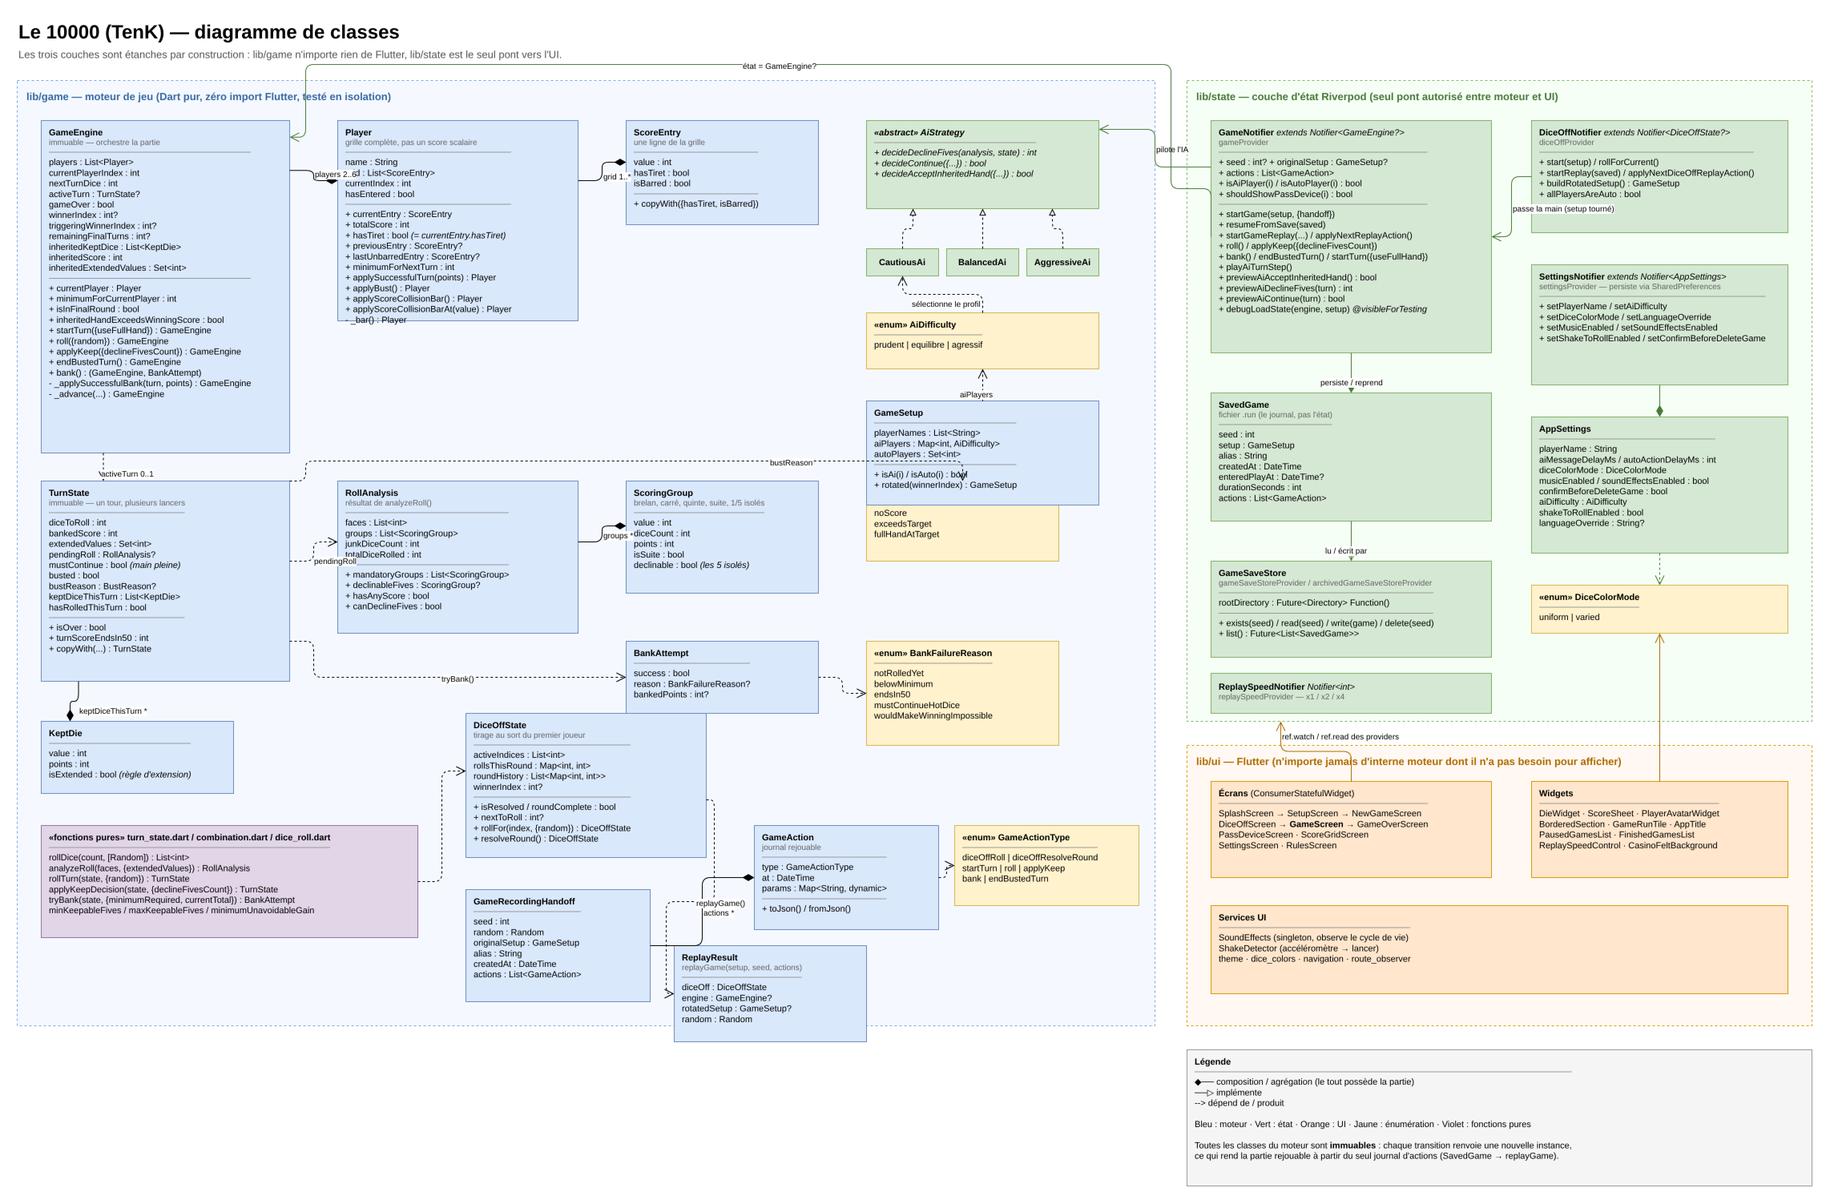
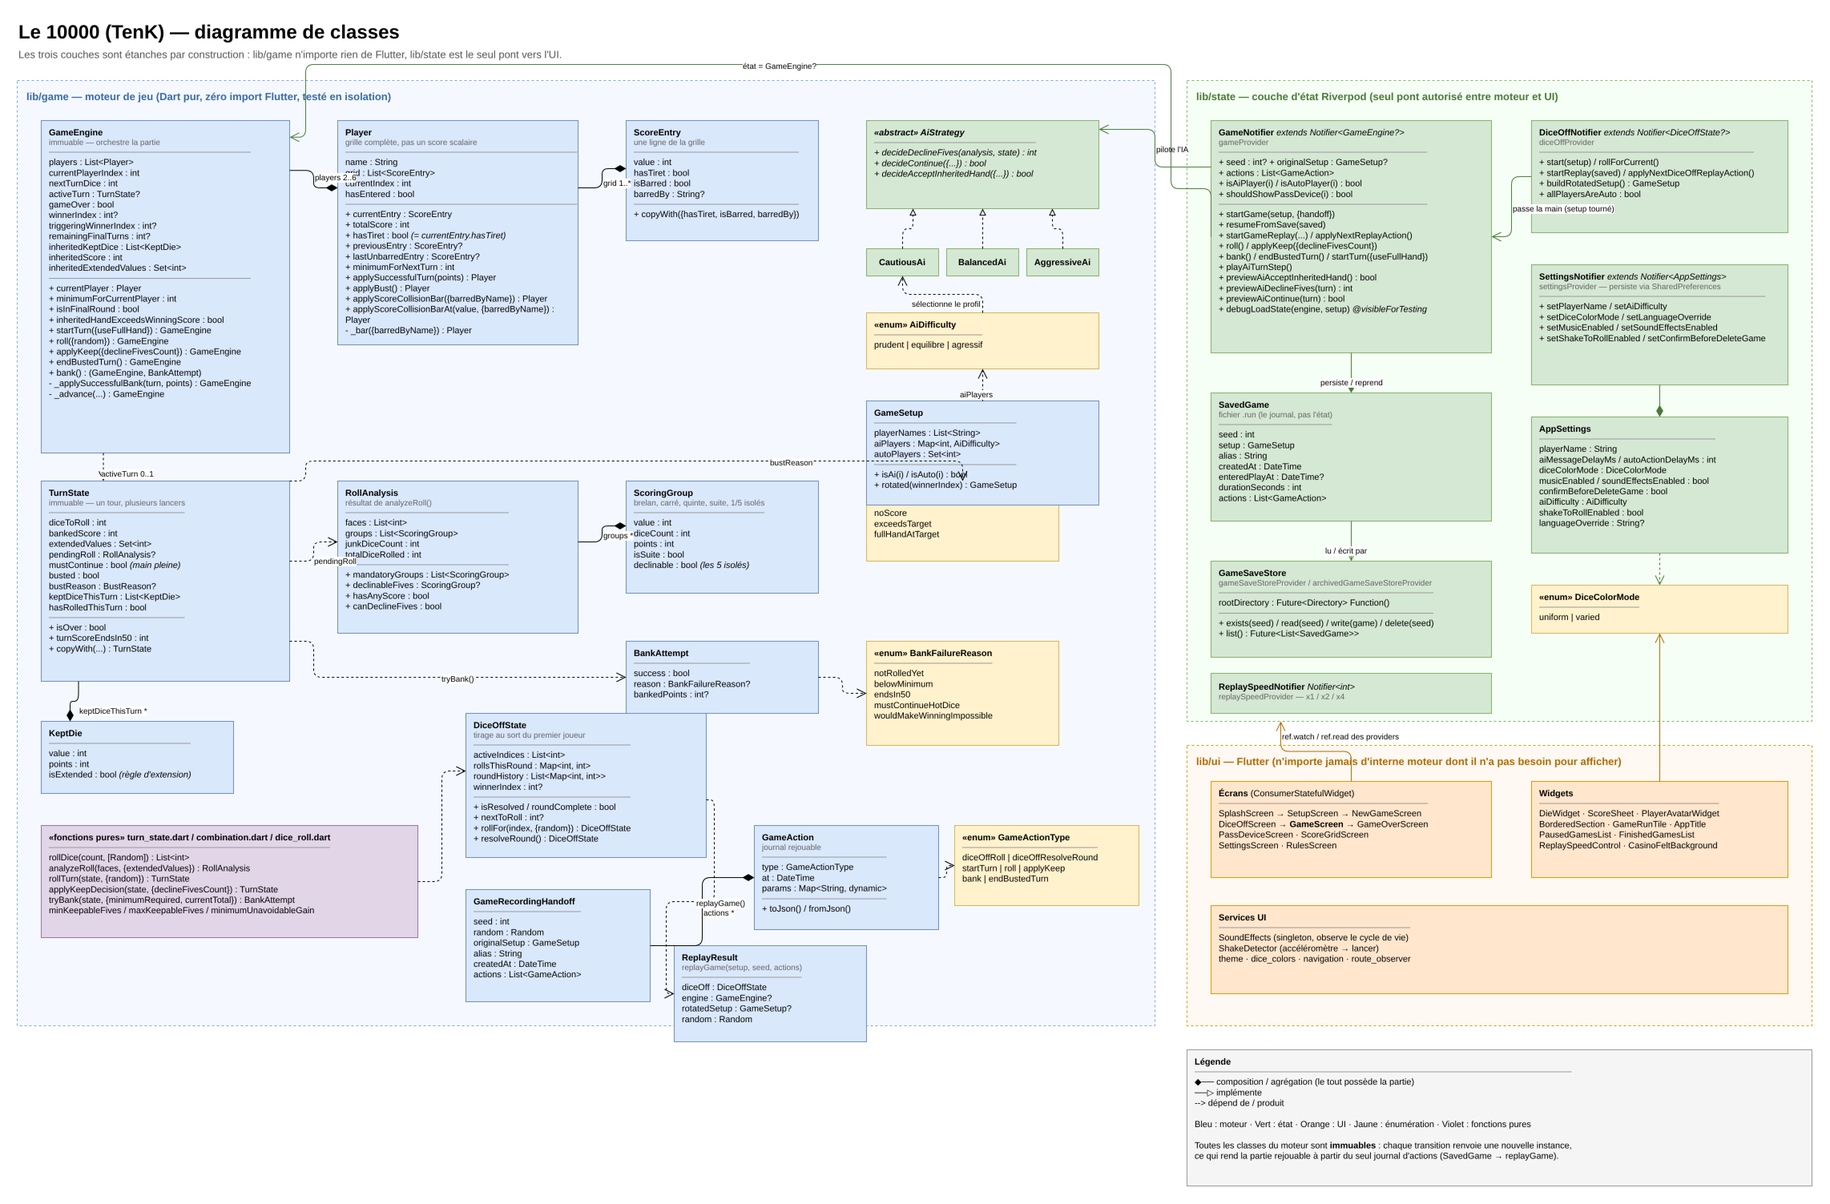
fix: show who actually barred a score, not the column's own player
The score grid always showed the column owner's badge next to a barred
line, whichever of the two ways it got barred: correct for a self-bust
(a second consecutive bust bars the player's own line), wrong for a score
collision (another player's turn is what barred it -- their badge should
show, not the column owner's).

ScoreEntry gains barredBy: String?, set by Player.applyBust (always the
player's own name -- a bust only ever bars its own player) and
applyScoreCollisionBar(At) (now takes a required barredByName, the player
whose turn caused the collision). GameEngine passes updatedPlayer.name
through from _applySuccessfulBank. The score grid reads entry.barredBy
instead of the column's player name.

Widget test reproduces the exact reported case (two players, a collision)
and is verified failing against the previous rendering; a second test
covers the self-bust case where the two names happen to coincide.

Claude-Session: https://claude.ai/code/session_01KwBBGkCP45jdW91CU4y1he

diff --git a/test/game/player_test.dart b/test/game/player_test.dart
@@ -44,6 +44,7 @@ void main() {
 
     p = p.applyBust(); // craque sur 700, déjà tiretée : barrée à son tour
     expect(p.totalScore, 0);
+    expect(p.grid[1].barredBy, 'A', reason: 'un craque se barre toujours lui-même');
   });
 
   test('un barrage vers une ligne sans tiret laisse bien le joueur sans tiret', () {
@@ -96,14 +97,14 @@ void main() {
   group('applyScoreCollisionBar', () {
     test('barre même sans tiret actif', () {
       var p = Player(name: 'A').applySuccessfulTurn(700); // 0 -> 700
-      p = p.applyScoreCollisionBar();
+      p = p.applyScoreCollisionBar(barredByName: 'B');
       expect(p.totalScore, 0);
       expect(p.hasTiret, isFalse);
     });
 
     test('une collision qui ramène à 0 remet aussi l\'entrée en jeu à zéro', () {
       var p = Player(name: 'A').applySuccessfulTurn(700); // 0 -> 700
-      p = p.applyScoreCollisionBar(); // collision -> retombe à 0
+      p = p.applyScoreCollisionBar(barredByName: 'B'); // collision -> retombe à 0
       expect(p.totalScore, 0);
       expect(p.hasEntered, isFalse);
       expect(p.minimumForNextTurn, entryThreshold);
@@ -112,7 +113,7 @@ void main() {
     test('une collision qui ne ramène pas à 0 ne touche pas à l\'entrée en jeu', () {
       var p = Player(name: 'A').applySuccessfulTurn(500); // 0 -> 500
       p = p.applySuccessfulTurn(300); // 500 -> 800
-      p = p.applyScoreCollisionBar(); // collision -> retombe à 500, toujours entré
+      p = p.applyScoreCollisionBar(barredByName: 'B'); // collision -> retombe à 500, toujours entré
       expect(p.totalScore, 500);
       expect(p.hasEntered, isTrue);
       expect(p.minimumForNextTurn, normalThreshold);
@@ -122,7 +123,7 @@ void main() {
       var p = Player(name: 'A').applySuccessfulTurn(500); // 0 -> 500
       p = p.applyBust(); // tiret posé sur 500, point de retour = 0
       p = p.applySuccessfulTurn(300); // 500 -> 800, point de retour = 500
-      p = p.applyScoreCollisionBar(); // barre 800 -> retour à 500
+      p = p.applyScoreCollisionBar(barredByName: 'B'); // barre 800 -> retour à 500
       expect(p.totalScore, 500);
       // Le tiret de 500 est resté attaché à sa ligne : y revenir le remet en
       // vigueur (voir le test des deux craques consécutifs).
@@ -133,9 +134,10 @@ void main() {
   group('applyScoreCollisionBarAt', () {
     test('collision sur la ligne courante : comportement inchangé (repli sur le score précédent)', () {
       var p = Player(name: 'A').applySuccessfulTurn(700); // 0 -> 700
-      p = p.applyScoreCollisionBarAt(700);
+      p = p.applyScoreCollisionBarAt(700, barredByName: 'B');
       expect(p.totalScore, 0);
       expect(p.grid.last.isBarred, isTrue);
+      expect(p.grid.last.barredBy, 'B', reason: 'barré par l\'auteur de la collision, pas par A lui-même');
     });
 
     // Régression : un adversaire qui a DÉJÀ eu 700 (avant de progresser à
@@ -145,7 +147,7 @@ void main() {
       var p = Player(name: 'A').applySuccessfulTurn(700); // 0 -> 700
       p = p.applySuccessfulTurn(200); // 700 -> 900
 
-      p = p.applyScoreCollisionBarAt(700);
+      p = p.applyScoreCollisionBarAt(700, barredByName: 'B');
 
       expect(p.totalScore, 900, reason: 'la progression depuis 700 -> 900 n\'est pas remise en cause');
       expect(p.hasEntered, isTrue);
@@ -156,7 +158,7 @@ void main() {
 
     test('aucune ligne ne correspond : sans effet', () {
       var p = Player(name: 'A').applySuccessfulTurn(700); // 0 -> 700
-      final unchanged = p.applyScoreCollisionBarAt(1234);
+      final unchanged = p.applyScoreCollisionBarAt(1234, barredByName: 'B');
       expect(unchanged.totalScore, 700);
       expect(unchanged.grid.every((e) => !e.isBarred), isTrue);
     });
@@ -164,10 +166,10 @@ void main() {
     test('une ligne déjà barrée ne peut pas l\'être une seconde fois par une nouvelle collision', () {
       var p = Player(name: 'A').applySuccessfulTurn(700); // 0 -> 700
       p = p.applySuccessfulTurn(200); // 700 -> 900
-      p = p.applyScoreCollisionBarAt(700); // barre la ligne 700
+      p = p.applyScoreCollisionBarAt(700, barredByName: 'B'); // barre la ligne 700
       expect(p.grid[1].isBarred, isTrue);
 
-      final again = p.applyScoreCollisionBarAt(700); // déjà barrée : sans effet
+      final again = p.applyScoreCollisionBarAt(700, barredByName: 'C'); // déjà barrée : sans effet
       expect(again.totalScore, 900);
       expect(again.grid[1].isBarred, isTrue);
     });
@@ -179,11 +181,11 @@ void main() {
     test('un repli saute une ligne intermédiaire déjà barrée pour retomber sur le plus haut score non barré', () {
       var p = Player(name: 'A').applySuccessfulTurn(500); // 0 -> 500
       p = p.applySuccessfulTurn(200); // 500 -> 700
-      p = p.applyScoreCollisionBarAt(500); // barre la ligne 500 (dépassée), 700 reste courant
+      p = p.applyScoreCollisionBarAt(500, barredByName: 'B'); // barre la ligne 500 (dépassée), 700 reste courant
       expect(p.grid[1].isBarred, isTrue);
       expect(p.totalScore, 700);
 
-      p = p.applyScoreCollisionBarAt(700); // collision sur la ligne COURANTE cette fois
+      p = p.applyScoreCollisionBarAt(700, barredByName: 'B'); // collision sur la ligne COURANTE cette fois
 
       expect(p.totalScore, 0, reason: 'la ligne 500 est déjà barrée : repli jusqu\'à 0, pas 500');
       expect(p.hasEntered, isFalse);

diff --git a/lib/game/player.dart b/lib/game/player.dart
@@ -18,13 +18,22 @@ class ScoreEntry {
   final bool hasTiret;
   final bool isBarred;
 
-  const ScoreEntry(this.value, {this.hasTiret = false, this.isBarred = false});
+  /// Nom du joueur dont l'action a causé le barrage de cette ligne — soi-même
+  /// en cas de second craque consécutif (voir [Player.applyBust]), ou
+  /// l'auteur du tour qui vient de provoquer la collision de score (voir
+  /// [Player.applyScoreCollisionBarAt]). Toujours renseigné quand [isBarred]
+  /// est vrai (jamais réinitialisé ensuite, une ligne barrée le reste), null
+  /// sinon.
+  final String? barredBy;
 
-  ScoreEntry copyWith({bool? hasTiret, bool? isBarred}) {
+  const ScoreEntry(this.value, {this.hasTiret = false, this.isBarred = false, this.barredBy});
+
+  ScoreEntry copyWith({bool? hasTiret, bool? isBarred, String? barredBy}) {
     return ScoreEntry(
       value,
       hasTiret: hasTiret ?? this.hasTiret,
       isBarred: isBarred ?? this.isBarred,
+      barredBy: barredBy ?? this.barredBy,
     );
   }
 }
@@ -133,7 +142,10 @@ class Player {
 
   /// Applique un craque : marque la ligne courante d'un tiret si elle n'en a
   /// pas déjà un actif, ou la barre sinon. Un craque à 0 ne marque jamais de
-  /// tiret : il n'y a rien à sanctionner en dessous du plancher.
+  /// tiret : il n'y a rien à sanctionner en dessous du plancher. Toujours
+  /// appelé sur le joueur qui vient lui-même de craquer : s'il barre sa
+  /// propre ligne, c'est donc lui-même l'auteur du barrage (voir
+  /// [ScoreEntry.barredBy]).
   Player applyBust() {
     if (totalScore == 0) return this;
     if (!hasTiret) {
@@ -146,18 +158,21 @@ class Player {
         hasEntered: hasEntered,
       );
     }
-    return _bar();
+    return _bar(barredByName: name);
   }
 
   /// Applique un score barré suite à une collision : un autre joueur vient
   /// de terminer son tour avec exactement le même score que celui-ci. Barre
   /// toujours la ligne courante, qu'elle porte ou non un tiret actif.
-  Player applyScoreCollisionBar() => _bar();
+  /// [barredByName] est le nom de cet autre joueur, l'auteur du tour qui
+  /// vient de provoquer la collision (voir [ScoreEntry.barredBy]).
+  Player applyScoreCollisionBar({required String barredByName}) => _bar(barredByName: barredByName);
 
   /// Recherche, dans TOUTE la grille (pas seulement la ligne courante), une
-  /// ligne non barrée valant exactement [value] — un autre joueur vient de
-  /// terminer son tour sur ce score, qui a donc déjà été "pris" par celui-ci
-  /// à un moment quelconque de la partie, même s'il a progressé depuis.
+  /// ligne non barrée valant exactement [value] — un autre joueur ([barredByName],
+  /// l'auteur du tour qui vient de banquer ce score, voir [ScoreEntry.barredBy])
+  /// vient de terminer son tour sur ce score, qui a donc déjà été "pris" par
+  /// celui-ci à un moment quelconque de la partie, même s'il a progressé depuis.
   /// - Si c'est la ligne courante : comportement inchangé, repli sur la
   ///   ligne précédente (voir [_bar]).
   /// - Si c'est une ligne plus ancienne déjà dépassée par un tour réussi
@@ -166,12 +181,12 @@ class Player {
   ///   score courant ne change pas.
   /// - Si [value] n'apparaît nulle part (ou seulement sur une ligne déjà
   ///   barrée) : aucun effet.
-  Player applyScoreCollisionBarAt(int value) {
-    if (currentEntry.value == value) return _bar();
+  Player applyScoreCollisionBarAt(int value, {required String barredByName}) {
+    if (currentEntry.value == value) return _bar(barredByName: barredByName);
     final idx = grid.indexWhere((e) => !e.isBarred && e.value == value);
     if (idx == -1) return this;
     final newGrid = List<ScoreEntry>.of(grid);
-    newGrid[idx] = newGrid[idx].copyWith(isBarred: true);
+    newGrid[idx] = newGrid[idx].copyWith(isBarred: true, barredBy: barredByName);
     return Player._raw(
       name: name,
       grid: newGrid,
@@ -180,9 +195,9 @@ class Player {
     );
   }
 
-  Player _bar() {
+  Player _bar({required String barredByName}) {
     final newGrid = List<ScoreEntry>.of(grid);
-    newGrid[currentIndex] = currentEntry.copyWith(isBarred: true);
+    newGrid[currentIndex] = currentEntry.copyWith(isBarred: true, barredBy: barredByName);
     // Repli sur le plus haut score NON barré de la grille : une ligne plus
     // ancienne peut déjà avoir été barrée indépendamment (collision de score
     // sur une ligne dépassée depuis, voir [applyScoreCollisionBarAt]), donc

diff --git a/lib/ui/screens/score_grid_screen.dart b/lib/ui/screens/score_grid_screen.dart
@@ -126,7 +126,7 @@ class _GridPage extends StatelessWidget {
             Expanded(
               child: Padding(
                 padding: const EdgeInsets.symmetric(horizontal: 4),
-                child: _PlayerColumn(player: players[i], avatarColor: avatarColors[players[i].name]),
+                child: _PlayerColumn(player: players[i], avatarColors: avatarColors),
               ),
             ),
         ],
@@ -137,9 +137,9 @@ class _GridPage extends StatelessWidget {
 
 class _PlayerColumn extends StatelessWidget {
   final Player player;
-  final Color? avatarColor;
+  final Map<String, Color> avatarColors;
 
-  const _PlayerColumn({required this.player, required this.avatarColor});
+  const _PlayerColumn({required this.player, required this.avatarColors});
 
   @override
   Widget build(BuildContext context) {
@@ -147,7 +147,7 @@ class _PlayerColumn extends StatelessWidget {
       crossAxisAlignment: CrossAxisAlignment.stretch,
       children: [
         Center(
-          child: PlayerAvatarWidget(name: player.name, size: 36, color: avatarColor),
+          child: PlayerAvatarWidget(name: player.name, size: 36, color: avatarColors[player.name]),
         ),
         const SizedBox(height: 8),
         for (var i = player.grid.length - 1; i >= 0; i--)
@@ -156,8 +156,7 @@ class _PlayerColumn extends StatelessWidget {
             child: _ScoreRow(
               entry: player.grid[i],
               isCurrent: i == player.currentIndex,
-              playerName: player.name,
-              avatarColor: avatarColor,
+              avatarColors: avatarColors,
             ),
           ),
       ],
@@ -168,14 +167,12 @@ class _PlayerColumn extends StatelessWidget {
 class _ScoreRow extends StatelessWidget {
   final ScoreEntry entry;
   final bool isCurrent;
-  final String playerName;
-  final Color? avatarColor;
+  final Map<String, Color> avatarColors;
 
   const _ScoreRow({
     required this.entry,
     required this.isCurrent,
-    required this.playerName,
-    required this.avatarColor,
+    required this.avatarColors,
   });
 
   @override
@@ -212,12 +209,15 @@ class _ScoreRow extends StatelessWidget {
               color: textColor,
             ),
           ),
-          // Le blason du joueur rejoint le libellé du score barré, même
-          // convention visuelle que l'entrée "Score barré" du journal de
-          // partie (voir _buildLogWhatCell dans game_screen.dart).
-          if (entry.isBarred) ...[
+          // Le blason de l'AUTEUR du barrage (pas forcément le propriétaire
+          // de cette colonne) rejoint le libellé du score barré : soi-même en
+          // cas de second craque consécutif, ou l'adversaire dont le tour
+          // vient de provoquer la collision (voir [ScoreEntry.barredBy] et
+          // l'entrée "Score barré" du journal de partie, qui suit la même
+          // convention — voir _buildLogWhatCell dans game_screen.dart).
+          if (entry.isBarred && entry.barredBy != null) ...[
             const SizedBox(width: 6),
-            PlayerAvatarWidget(name: playerName, size: 16, color: avatarColor),
+            PlayerAvatarWidget(name: entry.barredBy!, size: 16, color: avatarColors[entry.barredBy]),
           ],
           if (entry.hasTiret) ...[
             const SizedBox(width: 6),

diff --git a/test/ui/score_grid_test.dart b/test/ui/score_grid_test.dart
@@ -37,6 +37,68 @@ void main() {
     expect(texts.single.style?.decoration, TextDecoration.lineThrough);
   });
 
+  testWidgets(
+      'un score barré par collision affiche le blason de l\'auteur du barrage, pas celui du propriétaire de la colonne',
+      (tester) async {
+    // Alice a 700 ; Bob vient de banquer exactement 700 lui aussi, ce qui
+    // barre la ligne d'Alice. Le blason à côté de ce score barré doit être
+    // celui de BOB (l'auteur de la collision), pas celui d'Alice.
+    final alice = Player(name: 'Alice').applySuccessfulTurn(700).applyScoreCollisionBarAt(
+          700,
+          barredByName: 'Bob',
+        );
+    final bob = Player(name: 'Bob').applySuccessfulTurn(700);
+
+    await tester.pumpWidget(
+      MaterialApp(
+        home: ScoreGridScreen(players: [alice, bob]),
+        localizationsDelegates: AppLocalizations.localizationsDelegates,
+        supportedLocales: AppLocalizations.supportedLocales,
+      ),
+    );
+    await tester.pumpAndSettle();
+
+    expect(alice.grid.last.isBarred, isTrue);
+    expect(alice.grid.last.barredBy, 'Bob');
+
+    // Le blason de Bob apparaît deux fois : son entête de colonne, et
+    // l'auteur du barrage dans la colonne d'Alice. Celui d'Alice n'apparaît
+    // qu'une fois : son propre entête -- jamais comme auteur de son propre
+    // barrage, puisque ce n'est pas elle qui l'a causé.
+    expect(_avatarFor('Bob'), findsNWidgets(2), reason: 'entête de colonne + auteur du barrage chez Alice');
+    expect(_avatarFor('Alice'), findsOneWidget, reason: 'seulement son entête : elle n\'a pas causé son propre barrage');
+  });
+
+  testWidgets(
+      'un score barré par un second craque affiche le blason du joueur lui-même',
+      (tester) async {
+    // Cas symétrique : un craque sur une ligne déjà tiretée se barre
+    // lui-même (voir Player.applyBust) -- le blason affiché doit alors être
+    // le sien, pas celui d'un autre joueur.
+    var alice = Player(name: 'Alice').applySuccessfulTurn(700);
+    alice = alice.applyBust(); // tiret sur 700
+    alice = alice.applySuccessfulTurn(300); // 700 -> 1000, nouvelle ligne
+    alice = alice.applyBust(); // tiret sur 1000
+    alice = alice.applyBust(); // 1000 barré -> retombe sur 700
+
+    await tester.pumpWidget(
+      MaterialApp(
+        home: ScoreGridScreen(players: [alice]),
+        localizationsDelegates: AppLocalizations.localizationsDelegates,
+        supportedLocales: AppLocalizations.supportedLocales,
+      ),
+    );
+    await tester.pumpAndSettle();
+
+    final barredEntry = alice.grid.firstWhere((e) => e.value == 1000);
+    expect(barredEntry.isBarred, isTrue);
+    expect(barredEntry.barredBy, 'Alice');
+
+    // Un seul joueur dans cette partie : le blason d'Alice apparaît deux
+    // fois -- son entête de colonne, et l'auteur de son propre barrage.
+    expect(_avatarFor('Alice'), findsNWidgets(2));
+  });
+
   testWidgets('le bouton grille de la partie en cours ouvre bien l\'écran', (tester) async {
     final container = ProviderContainer();
     addTearDown(container.dispose);

diff --git a/test/game/game_engine_test.dart b/test/game/game_engine_test.dart
@@ -129,6 +129,8 @@ void main() {
 
     expect(after.players[0].totalScore, 700, reason: 'retombe d\'un cran, au score d\'avant le dernier tour validé');
     expect(after.players[0].hasTiret, isFalse, reason: 'le tiret est consommé par le barrage');
+    expect(after.players[0].grid.firstWhere((e) => e.value == 1000).barredBy, 'A',
+        reason: 'un craque se barre toujours lui-même');
     expect(after.currentPlayerIndex, 1);
     expect(after.nextTurnDice, 5);
   });
@@ -168,6 +170,8 @@ void main() {
       expect(after.players[1].totalScore, 2000, reason: 'B a bien validé son tour à 2000');
       expect(after.players[0].totalScore, 1800, reason: 'A retombe à son score précédent : collision à 2000');
       expect(after.players[0].hasTiret, isFalse);
+      expect(after.players[0].grid.firstWhere((e) => e.value == 2000).barredBy, 'B',
+          reason: 'barré par B, l\'auteur du tour qui vient de provoquer la collision');
     });
 
     test('la collision barre aussi un joueur qui portait déjà un tiret', () {
@@ -208,6 +212,7 @@ void main() {
       expect(after.players[1].totalScore, 700, reason: 'B a bien validé son tour à 700');
       expect(after.players[0].totalScore, 900, reason: 'A garde sa progression : seule son ancienne ligne 700 est barrée');
       expect(after.players[0].grid.firstWhere((e) => e.value == 700).isBarred, isTrue);
+      expect(after.players[0].grid.firstWhere((e) => e.value == 700).barredBy, 'B');
     });
   });
 

diff --git a/lib/game/game_engine.dart b/lib/game/game_engine.dart
@@ -236,7 +236,10 @@ class GameEngine {
 
     for (var i = 0; i < newPlayers.length; i++) {
       if (i == currentPlayerIndex) continue;
-      newPlayers[i] = newPlayers[i].applyScoreCollisionBarAt(updatedPlayer.totalScore);
+      newPlayers[i] = newPlayers[i].applyScoreCollisionBarAt(
+        updatedPlayer.totalScore,
+        barredByName: updatedPlayer.name,
+      );
     }
 
     return _advance(

diff --git a/docs/architecture.md b/docs/architecture.md
@@ -42,7 +42,12 @@ une partie rejouable à l'identique.
   scalaire.** C'est délibéré : un tiret ou un barré s'attache à *la ligne* qui
   l'a reçue et y reste, même après des tours réussis. `Player.hasTiret` est
   exactement `currentEntry.hasTiret` — un seul fait, pas deux à synchroniser
-  (les avoir dédoublés a déjà produit un bug d'affichage).
+  (les avoir dédoublés a déjà produit un bug d'affichage). Chaque `ScoreEntry`
+  barrée retient aussi `barredBy`, le nom de l'auteur du barrage — soi-même
+  pour un second craque consécutif, l'adversaire dont le tour vient de
+  provoquer une collision de score sinon — pour que la grille affiche le bon
+  blason (`applyBust`/`applyScoreCollisionBarAt` le renseignent ; côté moteur,
+  c'est toujours le joueur courant au moment de l'action, self ou non).
 - **`TurnState`** modélise un tour sur plusieurs lancers : dés à lancer, score
   en cours, valeurs étendues, dés gardés, main pleine, craque et sa raison.
   Une main pleine qui tombe pile sur 10000 craque toujours (`BustReason.
